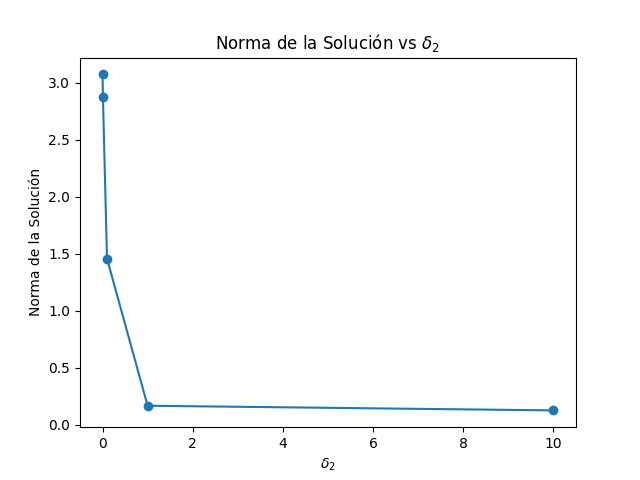
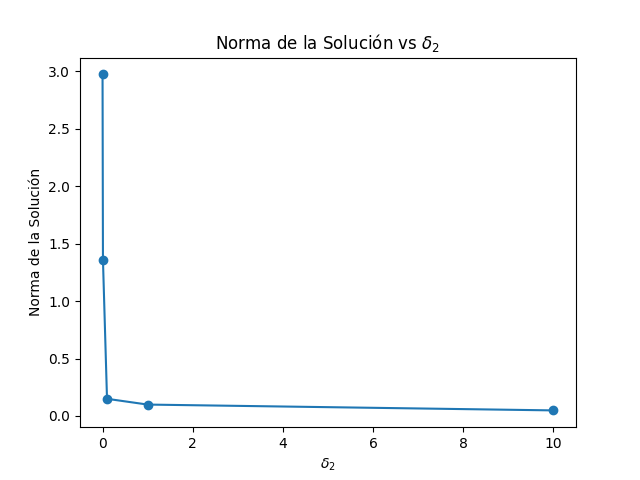
concha de la lora

diff --git a/TP4/segundo.py b/TP4/segundo.py
@@ -1,65 +1,32 @@
 import numpy as np
 import matplotlib.pyplot as plt
-
-# Generar matrices y vectores aleatorios
-np.random.seed(42)
+np.random.seed(1428)
 n = 5
 d = 100
 A = np.random.rand(n, d)
 b = np.random.rand(n)
-
-
-# # Configurations
-# n = 2  # Problem dimension
-# d = 2  # Parameter space dimension
-# iterations = 100
-# delta2 = 1e-2
-
-# # Random matrices and vectors generation
-# np.random.seed(0) 
-# A = np.random.randn(n, d)
-# b = np.random.randn(n)
+x0 = np.random.rand(d)
 
 iterations = 1000
 
 sigma = np.linalg.svd(A, full_matrices=False, compute_uv=False)
 sigma_max = np.max(sigma)
-
-# HF1(x) = 2 * A.T @ A
-lambda_max = 2 * sigma_max**2 # multiplico por 2 porque el hessiano es 2*(A.T @ A) y sigma es la raiz cuadrada de los autovalores de A.T @ A
-
-delta_constants = [0.001, 0.01, 0.1, 1, 10]  # Constante de regularización
-
+lambda_max = 2 * sigma_max**2  # HF1(x) = 2 * A.T @ A
 delta2 = 1e-2 * sigma_max
-
-# Paso de aprendizaje
-step = 1 / lambda_max
-
+step = 1 / lambda_max  # Paso de aprendizaje
 
 def F(x):
-    """Calcula la función de costo F(x) = (Ax - b)^T (Ax - b)."""
     return np.linalg.norm(A @ x - b)**2
 
-def grad_F(x):
-    """Calcula el gradiente de F(x)."""
-    return 2 * A.T @ (A @ x - b)
-
-def hessiano_F(A): # es la segunda derivada de F(x) porque depende de una sola variable
-    """Calcula el Hessiano de F(x)."""
-    return 2 * A.T @ A 
-
-# Función de costo F2(x) con regularización L2
 def F2(x, delta2):
-    """Calcula la función de costo F2(x) = F(x) + delta2 * ||x||^2.
-    """
     return F(x) + delta2 * np.linalg.norm(x)**2
 
-# Gradiente de F2(x)
+def grad_F(x):
+    return 2 * A.T @ (A @ x - b)
+
 def grad_F2(x, delta2):
-    """Calcula el gradiente de F2(x)."""
     return grad_F(x) + 2 * delta2 * x
 
-# Gradiente descendente
 def gradient_descent(grad_func, x0, step_size, max_iter, delta2=None):
     x = x0
     history = [x0]
@@ -69,9 +36,7 @@ def gradient_descent(grad_func, x0, step_size, max_iter, delta2=None):
         else:
             x = x - step_size * grad_func(x)
         history.append(x)
-    return np.array(history)
-
-
+    return x, np.array(history)
 
 def SVD(A, b):
     U, Sigma, VT = np.linalg.svd(A, full_matrices=False)
@@ -83,20 +48,21 @@ def plotF(x_svd, x0, step, iterations):
     delta = 0.01
     delta2 = delta * sigma_max
     plt.figure()
-    history_f1 = gradient_descent(grad_F, x0, step, iterations)
-    history_f2 = gradient_descent(grad_F2, x0, step,  iterations, delta2=delta2)
-    cost_F2 = [F2(x, delta2 * sigma_max) for x in history_f2]
+    _, history_f1 = gradient_descent(grad_F, x0, step, iterations)
+    x2, history_f2 = gradient_descent(grad_F2, x0, step, iterations, delta2=delta2)
+    cost_F2 = [F2(x, delta2) for x in history_f2]
     cost_f = [F(x) for x in history_f1]
 
-    plt.plot(cost_f, linewidth=1.7, label="$F(x)$", color = "cadetblue")
-    plt.plot(cost_F2, linewidth=thickness, label="$F_2(x)$ con $\delta_2 =$ $10^{-2}$ $\cdot \sigma_{max}$", color= "lightcoral")
-    plt.hlines(F(x_svd), 0, iterations, colors='darkslateblue', linestyles='dashed', label='$F(x)$ de la solución con SVD', linewidth=thickness)
-   
+    # plt.plot(cost_f, linewidth=thickness, label="$F(x)$", color="cadetblue")
+    # plt.hlines(F(x_svd), 0, iterations, colors='darkslateblue', linestyles='dashed', label='$F(x)$ de la solución con SVD', linewidth=thickness)
+    plt.plot(cost_F2, linewidth=thickness, label="$F_2(x)$ con $\delta_2 =$ $10^{-2}$ $\cdot \sigma_{max}$", color="lightcoral")
+    plt.hlines(delta2 * np.linalg.norm(x2)**2, 0, iterations, colors='darkred', linestyles='dashed', label='$\delta_2 \cdot ||x||^2$', linewidth=thickness)
+    
     plt.xlabel('Iteraciones', fontsize=15)
-    plt.ylabel('Valor de las funciones (en escala logarítmica)', fontsize=15)
+    plt.ylabel('Valor de las funciones (esc log)', fontsize=15)
     plt.legend(fontsize=14)  # Increase the font size to make the legend box bigger
     plt.yscale('log')
-    plt.title('Evolución de $F(x)$ y $F_2(x)$ por iteración', fontsize=20)
+    plt.title('Evolución de $F_2(x)$ por iteración', fontsize=20)
     plt.grid(False)
     plt.show()
 
@@ -106,11 +72,12 @@ def plotF(x_svd, x0, step, iterations):
 def plot_costo_F2(x_svd, x0, step_size, max_iter, delta2_values, colors):
   
     plt.figure()
-    for i, delta2 in enumerate(delta2_values):
+    for i, delta in enumerate(delta2_values):
+        delta2 = delta * sigma_max
         history_F2 = gradient_descent(grad_F2, x0, step_size, max_iter, delta2)
-        cost_F2 = [F2(x, delta2 * sigma_max) for x in history_F2]
+        cost_F2 = [F2(x, delta2) for x in history_F2]
         
-        plt.plot(cost_F2, label=f'$F_2(x_k)$ con $\\delta_2={delta2}$', color=colors[i])
+        plt.plot(cost_F2, label=f'$F_2(x_k)$ con $\\delta_2={delta}$$\cdot \sigma_{{max}}$', color=colors[i])
         # plt.axhline(y=F2(x_svd, delta2), color=colors[i], linestyle='--', label=f'$F_2(x^*)$ con $\\delta_2={delta2}$')
         
     plt.yscale('log')
@@ -124,9 +91,12 @@ def plot_costo_F2(x_svd, x0, step_size, max_iter, delta2_values, colors):
 def L2(x_svd, x0, step_size, max_iter, delta2_values, d=100, colors=['b', 'g', 'r', 'c', 'm'], markers=['o', 's', 'd', 'x', '+']):
     # Comparación de la solución obtenida con regularización L2 para diferentes valores de delta2
     plt.figure()
-    for i, delta2 in enumerate(delta2_values):
+    for i, delta in enumerate(delta2_values):
+        delta2 = delta * sigma_max
         history_F2 = gradient_descent(grad_F2, x0, step_size, max_iter, delta2)
-        plt.scatter(np.arange(d), history_F2[-1], label=f'$\\delta_2={delta2}$', color=colors[i], marker=markers[i], alpha = 0.9)
+        cost_F2 = [F2(x, delta2) for x in history_F2]
+        
+        plt.scatter(np.arange(d), history_F2[-1], label=f'$\\delta_2={delta}$$\cdot \sigma_{{max}}$', color=colors[i], marker=markers[i], alpha = 0.9)
     plt.scatter(np.arange(d), x_svd, label='Solución mediante SVD', color='k', marker='x')
     plt.xlabel('Índice')
     plt.ylabel('Valor de x')
@@ -138,7 +108,8 @@ def L2(x_svd, x0, step_size, max_iter, delta2_values, d=100, colors=['b', 'g', '
 def sigma_L2(x0, step_size, max_iter, delta2_values):
     # Desviación estándar de la solución obtenida con regularización L2 para diferentes valores de delta2
     std_dev = []
-    for delta2 in delta2_values:
+    for delta in delta2_values:
+        delta2 = delta * sigma_max
         history_F2 = gradient_descent(grad_F2, x0, step_size, max_iter, delta2)
         std_dev.append(np.std(history_F2[-1]))
 
@@ -153,7 +124,8 @@ def sigma_L2(x0, step_size, max_iter, delta2_values):
 def norma_L2(x0, step_size, max_iter, delta2_values):
     # Norma de la solución obtenida con regularización L2 para diferentes valores de delta2
     norms = []
-    for delta2 in delta2_values:
+    for delta in delta2_values:
+        delta2 = delta * sigma_max
         history_F2 = gradient_descent(grad_F2, x0, step_size, max_iter, delta2)
         norms.append(np.linalg.norm(history_F2[-1]))
 
@@ -168,7 +140,8 @@ def norma_L2(x0, step_size, max_iter, delta2_values):
 def singular_values(A, x0, step_size, max_iter, delta2_values, Sigma):
     # Evolución de los valores singulares durante las iteraciones
     sigma_evolution = np.zeros((max_iter + 1, len(Sigma)))
-    for i, delta2 in enumerate(delta2_values):
+    for i, delta in enumerate(delta2_values):
+        delta2 = delta * sigma_max
         history_F2 = gradient_descent(grad_F2, x0, step_size, max_iter, delta2)
         for j in range(max_iter + 1):
             sigma_evolution[j, :] = np.linalg.svd(A @ history_F2[j].reshape(-1, 1), compute_uv=False)
@@ -186,7 +159,8 @@ def singular_values(A, x0, step_size, max_iter, delta2_values, Sigma):
 def error_relativo(x_svd, x0, step_size, max_iter, delta2_values, colors= ['lightcoral', 'peachpuff', 'darkseagreen', 'lightseagreen', 'powderblue', 'mediumslateblue']):
     # Comparación de los errores relativos entre SVD y las soluciones obtenidas por los diferentes métodos
     errors = []
-    for delta2 in delta2_values:
+    for delta in delta2_values:
+        delta2 = delta * sigma_max
         history_F2 = gradient_descent(grad_F2, x0, step_size, max_iter, delta2)
         errors.append(np.linalg.norm(x_svd - history_F2[-1]) / np.linalg.norm(x_svd))
 
@@ -194,18 +168,71 @@ def error_relativo(x_svd, x0, step_size, max_iter, delta2_values, colors= ['ligh
     error_F = np.linalg.norm(x_svd - history_F[-1]) / np.linalg.norm(x_svd)
 
     plt.figure()
-    plt.bar(['F sin regularizar'] + [f'$\\delta_2={delta2}$' for delta2 in delta2_values], [error_F] + errors, color=colors)
+    plt.bar(['F sin regularizar'] + [f'$\\delta_2={delta}$$\cdot \sigma_{{max}}$' for delta in delta2_values], [error_F] + errors, color=colors)
     plt.xlabel('Métodos')
     plt.ylabel('Error Relativo')
     plt.title('Error relativo entre SVD y las soluciones obtenidas')
     plt.savefig('error_relativo.png')
     plt.show()
     
+def calc_errors(x_svd, x0, step_size, max_iter, delta_constants):
+    errors_relativos = []
+    errores_absolutos = []
+    for delta in delta_constants:
+        delta2 = delta * sigma_max
+        history_F2 = gradient_descent(grad_F2, x0, step_size, max_iter, delta2)
+        errors_relativos.append(np.linalg.norm(x_svd - history_F2[-1]) / np.linalg.norm(x_svd))
+        errores_absolutos.append(np.abs(F2(history_F2[-1], delta2) - F2(x_svd, delta2)))
+    
+    history_F = gradient_descent(grad_F, x0, step_size, max_iter)
+    error_relativo_F = np.linalg.norm(x_svd - history_F[-1]) / np.linalg.norm(x_svd)
+    error_absoluto_F = np.abs(F(history_F[-1]) - F(x_svd))
+    
+    return error_relativo_F, errors_relativos, error_absoluto_F, errores_absolutos
+
+# def calc_errors(x_svd, x0, step_size, max_iter, delta_constants):
+#     errors_relativos = []
+#     errores_absolutos = []
+#     for delta in delta_constants:
+#         delta2 = delta * sigma_max
+#         history_F2 = gradient_descent(grad_F2, x0, step_size, max_iter, delta2)
+#         errors_relativos.append(np.linalg.norm(F2(x_svd, delta2) - F2(history_F2[-1], delta2)) / np.linalg.norm(F2(x_svd, delta2)))
+#         errores_absolutos.append(np.abs(F2(history_F2[-1], delta2) - F2(x_svd, delta2)))
+    
+#     history_F = gradient_descent(grad_F, x0, step_size, max_iter)
+#     error_relativo_F = np.linalg.norm(F(x_svd) - F(history_F[-1])) / np.linalg.norm(F(x_svd))
+#     error_absoluto_F = np.abs(F(history_F[-1]) - F(x_svd))
+    
+#     return error_relativo_F, errors_relativos, error_absoluto_F, errores_absolutos
+
+
+def plot_errors_r(error_F, errors, delta2_values, colors= ['lightcoral', 'peachpuff', 'darkseagreen', 'lightseagreen', 'powderblue', 'mediumslateblue']):
+    plt.figure()
+    plt.bar(['F sin regularizar'] + [f'$\\delta_2={delta}$$\cdot \sigma_{{max}}$' for delta in delta2_values], [error_F] + errors, color=colors)
+    plt.xlabel('Métodos', fontsize= 15)
+    plt.ylabel('Error Relativo', fontsize=15)
+    plt.title(r'Error relativo entre SVD y las soluciones obtenidas $\frac{||X - X_{SVD} ||_2}{||X_{SVD}||_2}$', fontsize=16)
+    plt.savefig('error_relativo.png')
+    plt.yscale('log')
+    plt.show()
+    
+def plot_errors_a(error_F, errors, delta2_values, colors= ['lightcoral', 'peachpuff', 'darkseagreen', 'lightseagreen', 'powderblue', 'mediumslateblue']):
+    plt.figure()
+    tick_labels = ['$F(x)$', '$F_2(x), \delta^2 = 0.001$', '$F_2(x), \delta^2 = 0.01$', '$F_2(x), \delta^2 = 0.1$', '$F_2(x), \delta^2 = 1$', '$F_2(x), \delta^2 = 10$']
+    plt.bar(['F sin regularizar'] + [f'$\\delta_2={delta}$$\cdot \sigma_{{max}}$' for delta in delta2_values], [error_F] + errors, color=colors)
+    plt.xlabel('Métodos')
+    plt.title('Error absoluto entre SVD y las soluciones obtenidas')
+    plt.ylabel('Error absoluto de $||A \cdot x - b||_2$ esc= log', fontsize=15)
+    plt.legend(fontsize=14)
+    plt.yscale('log')
+    plt.show()
+    
+    
 def main():
 
 
     # Parámetros del algoritmo
-    x0 = np.random.rand(d)
+
     
     # x0 = np.random.randn(d)
     # x0 = np.random.uniform(0, 1, d)
@@ -235,12 +262,33 @@ def main():
     colors = ['lightcoral', 'peachpuff', 'seagreen', 'cadetblue', 'midnightblue']
     markers = ['o', 's', 'd', 'x', '+']
 
-    plot_costo_F2(x_svd, x0, step_size, max_iter, delta_constants, colors)
-    L2(x_svd, x0, step_size, max_iter, delta_constants, d, colors, markers)
-    sigma_L2(x0, step_size, max_iter, delta_constants)
-    norma_L2(x0, step_size, max_iter, delta_constants)
-    singular_values(A, x0, step_size, max_iter, delta_constants, np.linalg.svd(A, full_matrices=False)[1])
-    error_relativo(x_svd, x0, step_size, max_iter, delta_constants)
+    # plot_costo_F2(x_svd, x0, step_size, max_iter, delta_constants, colors)
+    # L2(x_svd, x0, step_size, max_iter, delta_constants, d, colors, markers)
+    # sigma_L2(x0, step_size, max_iter, delta_constants)
+    # norma_L2(x0, step_size, max_iter, delta_constants)
+    # singular_values(A, x0, step_size, max_iter, delta_constants, np.linalg.svd(A, full_matrices=False)[1])
+    # error_relativo(x_svd, x0, step_size, max_iter, delta_constants)
     
+    error_relativo_F, errors_relativos, error_absoluto_F, errores_absolutos = calc_errors(x_svd, x0, step_size, iterations, delta_constants)
+    plot_errors_r(error_relativo_F, errors_relativos, delta_constants)
+    plot_errors_a(error_absoluto_F, errores_absolutos, delta_constants)
+    
+    # Graficar errores relativos
+    plt.figure()
+    plt.bar(['F sin regularizar'] + [f'$\\delta_2={delta}$' for delta in delta_constants], [error_relativo_F] + errors_relativos)
+    plt.xlabel('Métodos')
+    plt.ylabel('Error Relativo')
+    plt.yscale('log')
+    plt.title('Error relativo entre SVD y las soluciones obtenidas')
+    plt.show()
+
+    # Graficar errores absolutos
+    plt.figure()
+    plt.bar(['F sin regularizar'] + [f'$\\delta_2={delta}$' for delta in delta_constants], [error_absoluto_F] + errores_absolutos)
+    plt.xlabel('Métodos')
+    plt.ylabel('Error Absoluto')
+    plt.yscale('log')
+    plt.title('Error absoluto entre SVD y las soluciones obtenidas')
+    plt.show()
 if __name__ == '__main__':
     main()

diff --git a/TP4/tp4_cata.py b/TP4/tp4_cata.py
@@ -69,12 +69,13 @@ def plotF1():
     delta2 = delta * sigma_max
     plt.figure()
     _, history_f1, _ = gradient_descent(x0, iterations, step)
-    _, history_f2, _ = gradient_descent(x0, iterations, step, regularization=True, delta2=delta2)
+    x, history_f2, _ = gradient_descent(x0, iterations, step, regularization=True, delta2=delta2)
 
-    plt.plot(history_f1, linewidth=1.7, label="$F(x)$", color = "cadetblue")
+    # plt.plot(history_f1, linewidth=1.7, label="$F(x)$", color = "cadetblue")
     plt.plot(history_f2, linewidth=thickness, label="$F_2(x)$ con $\delta_2 =$ $10^{-2}$ $\cdot \sigma_{max}$", color= "lightcoral")
-    plt.hlines(F(x_svd), 0, iterations, colors='darkslateblue', linestyles='dashed', label='$F(x)$ de la solución con SVD', linewidth=thickness)
-   
+    # plt.hlines(F(x_svd), 0, iterations, colors='darkslateblue', linestyles='dashed', label='$F(x)$ de la solución con SVD', linewidth=thickness)
+    plt.hlines(delta2 * np.linalg.norm(x)**2, 0, iterations, colors='darkred', linestyles='dashed', label='$\delta^2 \cdot ||x_0||^2$', linewidth=thickness)
+    
     plt.xlabel('Iteraciones', fontsize=15)
     plt.ylabel('Valor de las funciones (en escala logarítmica)', fontsize=15)
     plt.legend(fontsize=14)  # Increase the font size to make the legend box bigger
@@ -82,6 +83,8 @@ def plotF1():
     plt.title('Evolución de $F(x)$ y $F_2(x)$ por iteración', fontsize=20)
     plt.grid(False)
     plt.show()
+    
+
 
 def plotF2():
     # Grafico
